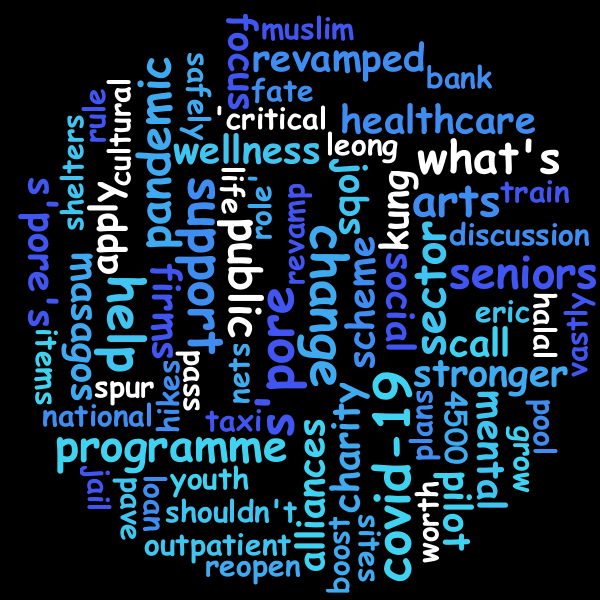
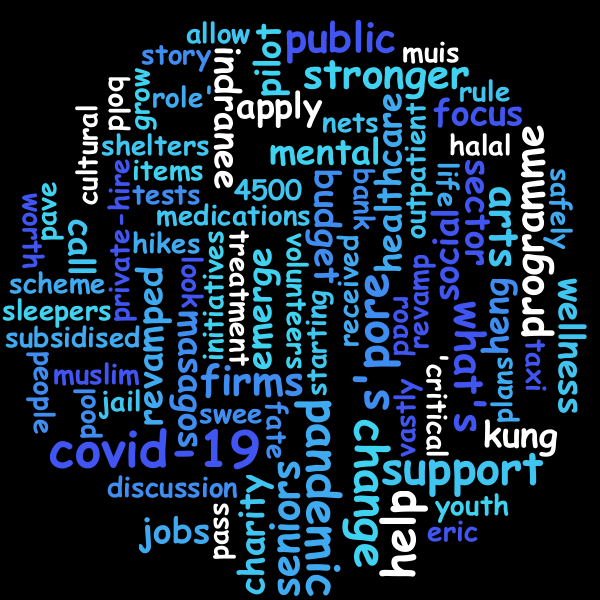
wordcloud

diff --git a/Spooder/src/main/java/Spooding/Spooder/WordCloudGenerator.java b/Spooder/src/main/java/Spooding/Spooder/WordCloudGenerator.java
@@ -5,6 +5,7 @@ import java.awt.Dimension;
 import java.io.IOException;
 import java.nio.file.Files;
 import java.nio.file.Paths;
+import java.util.ArrayList;
 import java.util.Collection;
 import java.util.List;
 
@@ -18,7 +19,7 @@ import com.kennycason.kumo.palette.ColorPalette;
 /**
  * Word Cloud Generator Class
  */
-public class WordCloudGenerator {
+public class WordCloudGenerator extends MongoConnect {
 	private String source;
 	private Dimension dimension = new Dimension(600, 600);
 	/**
@@ -68,9 +69,33 @@ public class WordCloudGenerator {
         frequencyAnalyzer.setMinWordLength(4);
         // set stop words to be excluded in the word cloud
         frequencyAnalyzer.setStopWords(loadStopWords());
+        // initialise a list to store all the string of data from the source
+        List<String> dataList = new ArrayList<String>();
+        
+        // Twitter
+        if (source == "twitter") {
+        	List<TwitterPost> twitterList = importTwitterMongo();
+        	for (TwitterPost post: twitterList) {
+            	dataList.add(post.getTitle());
+            }	
+        }
+        // Reddit
+        if (source == "reddit") {
+        	List<RedditPost> redditList = importRedditMongo();
+        	for (RedditPost post: redditList) {
+            	dataList.add(post.getTitle());
+            }	
+        }
+        // StraitsTimes
+        if (source == "straitstimes") {
+        	List<STPost> STList = importSTMongo();
+        	for (STPost post: STList) {
+            	dataList.add(post.getTitle());
+            }	
+        }
         
         // load the source csv file into the analyzer
-		final List<WordFrequency> wordFrequencies = frequencyAnalyzer.load(source + ".csv");
+		final List<WordFrequency> wordFrequencies = frequencyAnalyzer.load(dataList);
 		// there are 2 collision mode to choose from, PIXEL_PERFECT and RECTANGLE
 		final WordCloud wordCloud = new WordCloud(dimension, CollisionMode.PIXEL_PERFECT);
 		

diff --git a/Spooder/src/main/java/Spooding/Spooder/MongoConnect.java b/Spooder/src/main/java/Spooding/Spooder/MongoConnect.java
@@ -96,7 +96,7 @@ public abstract class MongoConnect {
 	
 	/**
 	 * Connects to the sentiment collection of MongoDB and extracts out individual documents into
-	 * SentimentPost objects, whereby they're stored into a array lis
+	 * SentimentPost objects, whereby they're stored into a array list
 	 * @return ArrayList of SentimentPost objects.
 	 */
 	protected ArrayList<SentimentPost> importSentimentMongo(){
